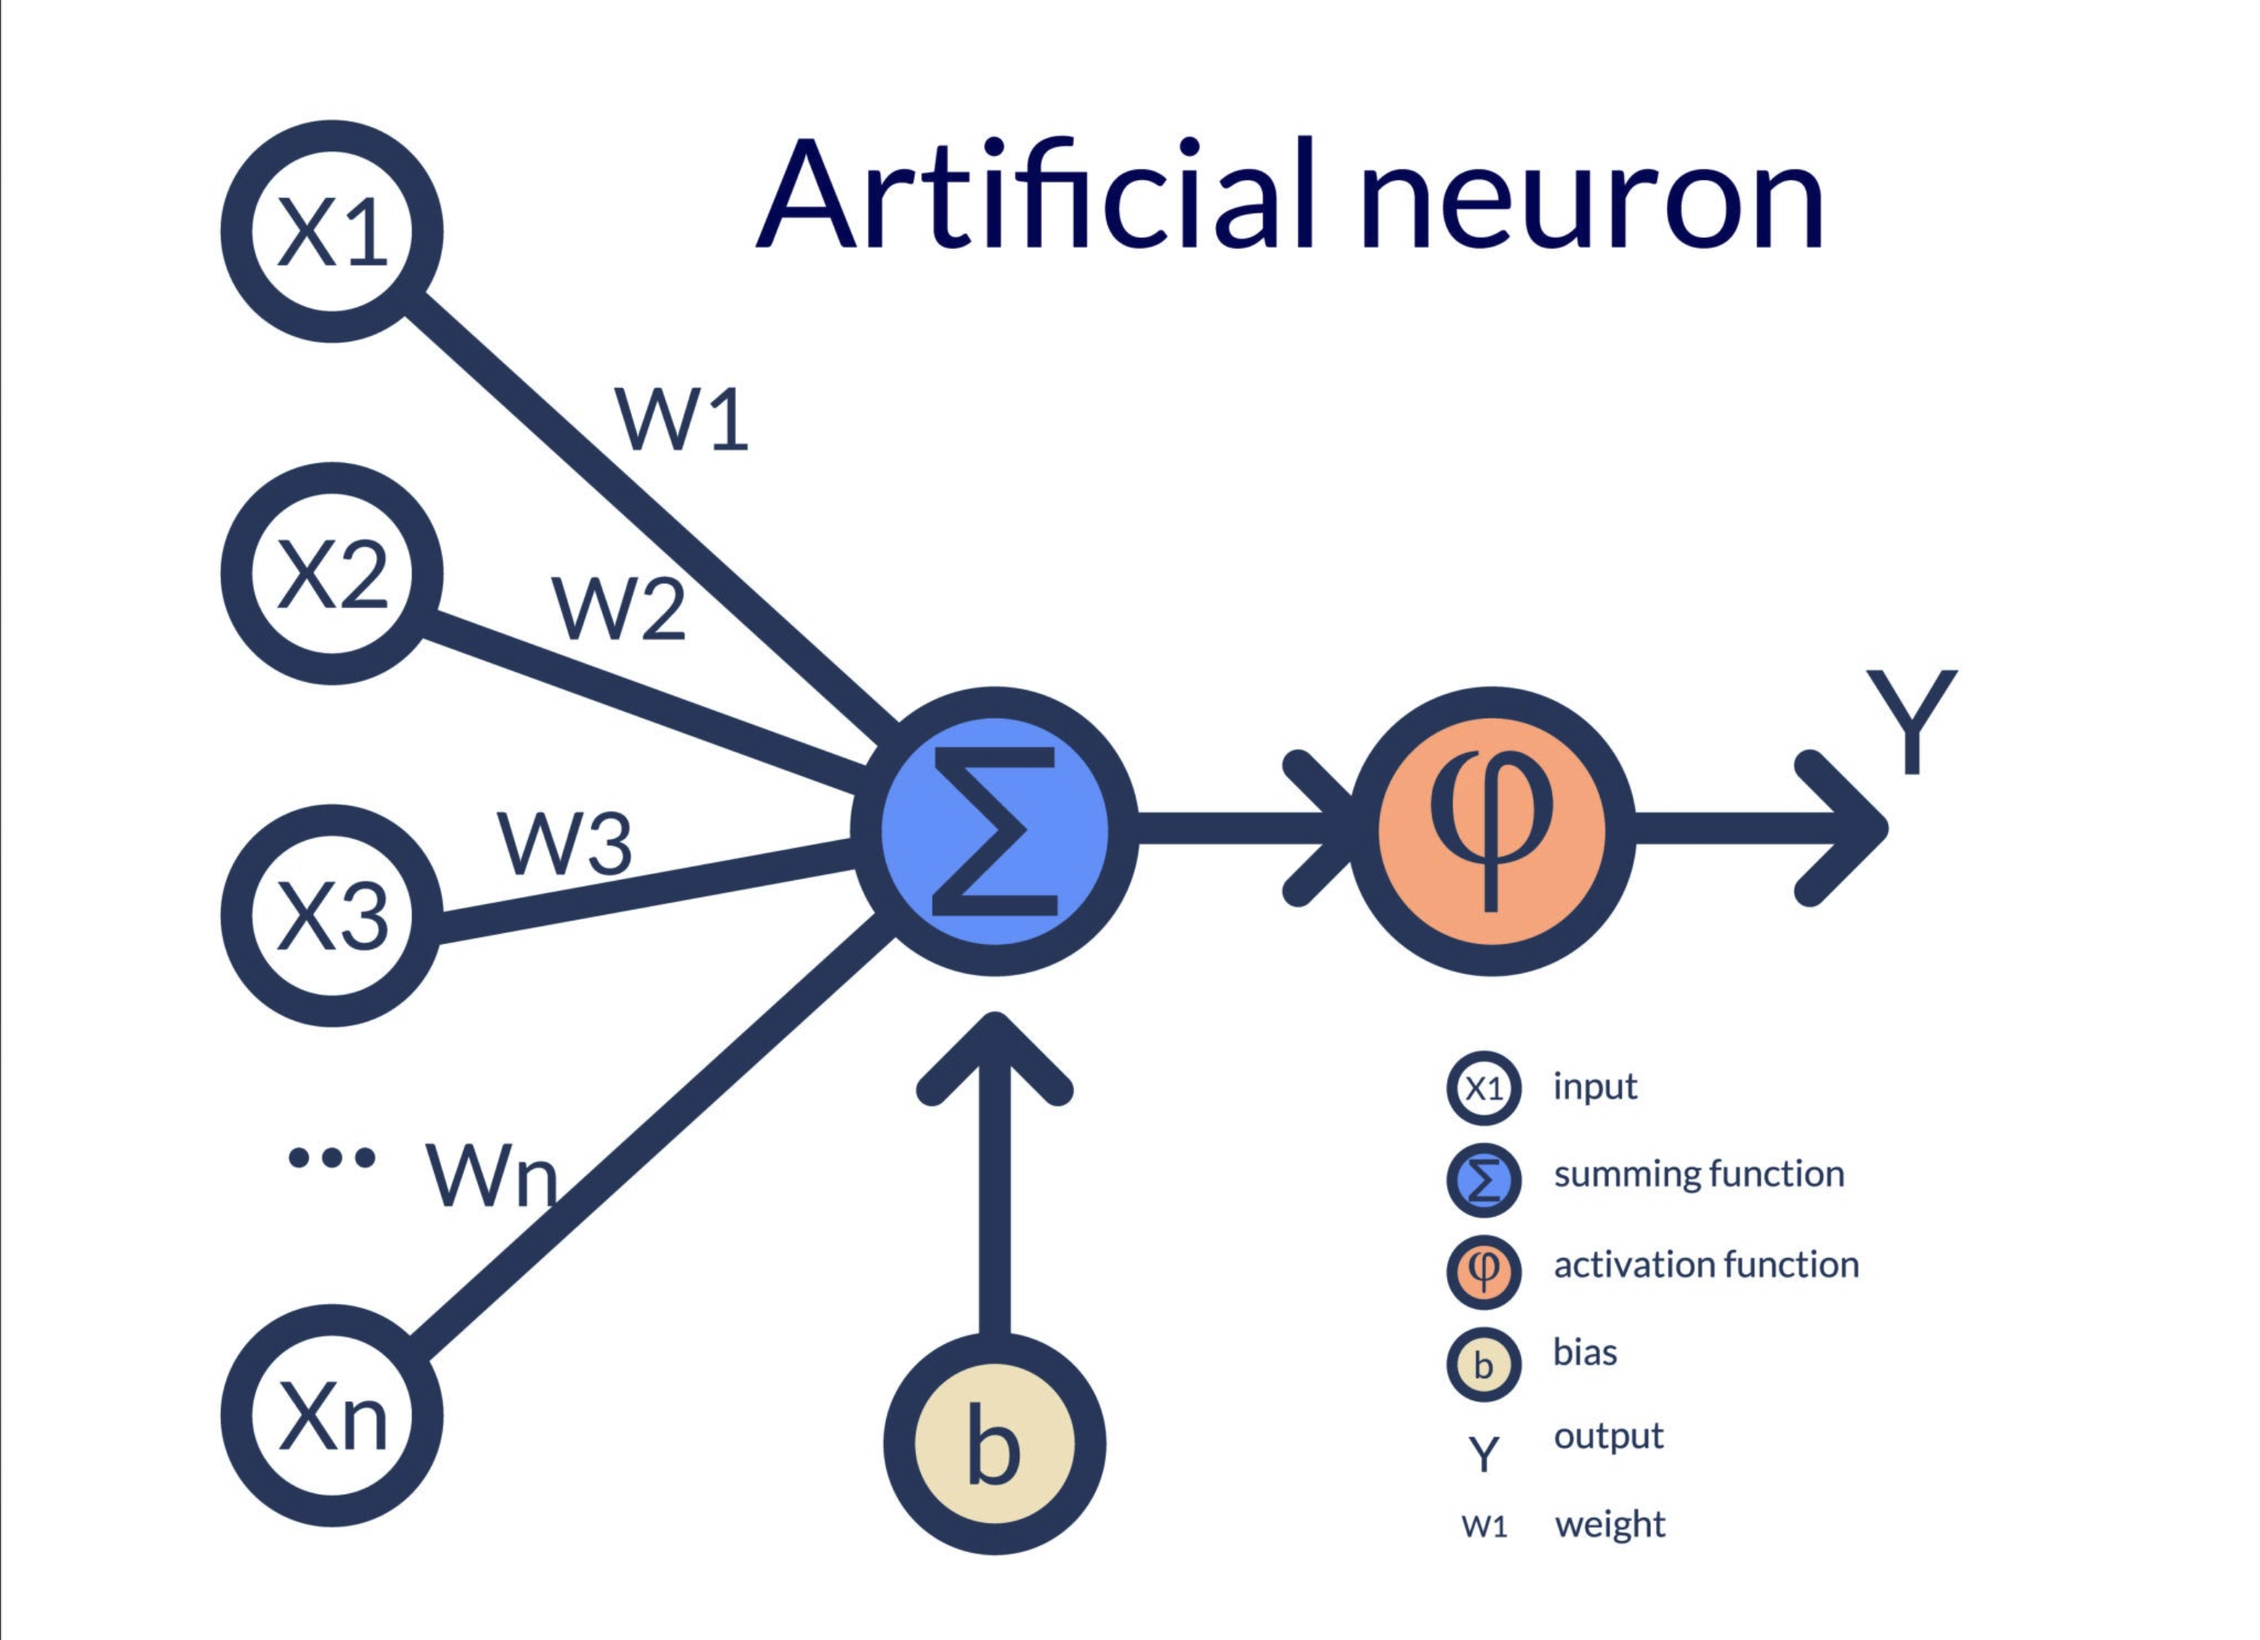
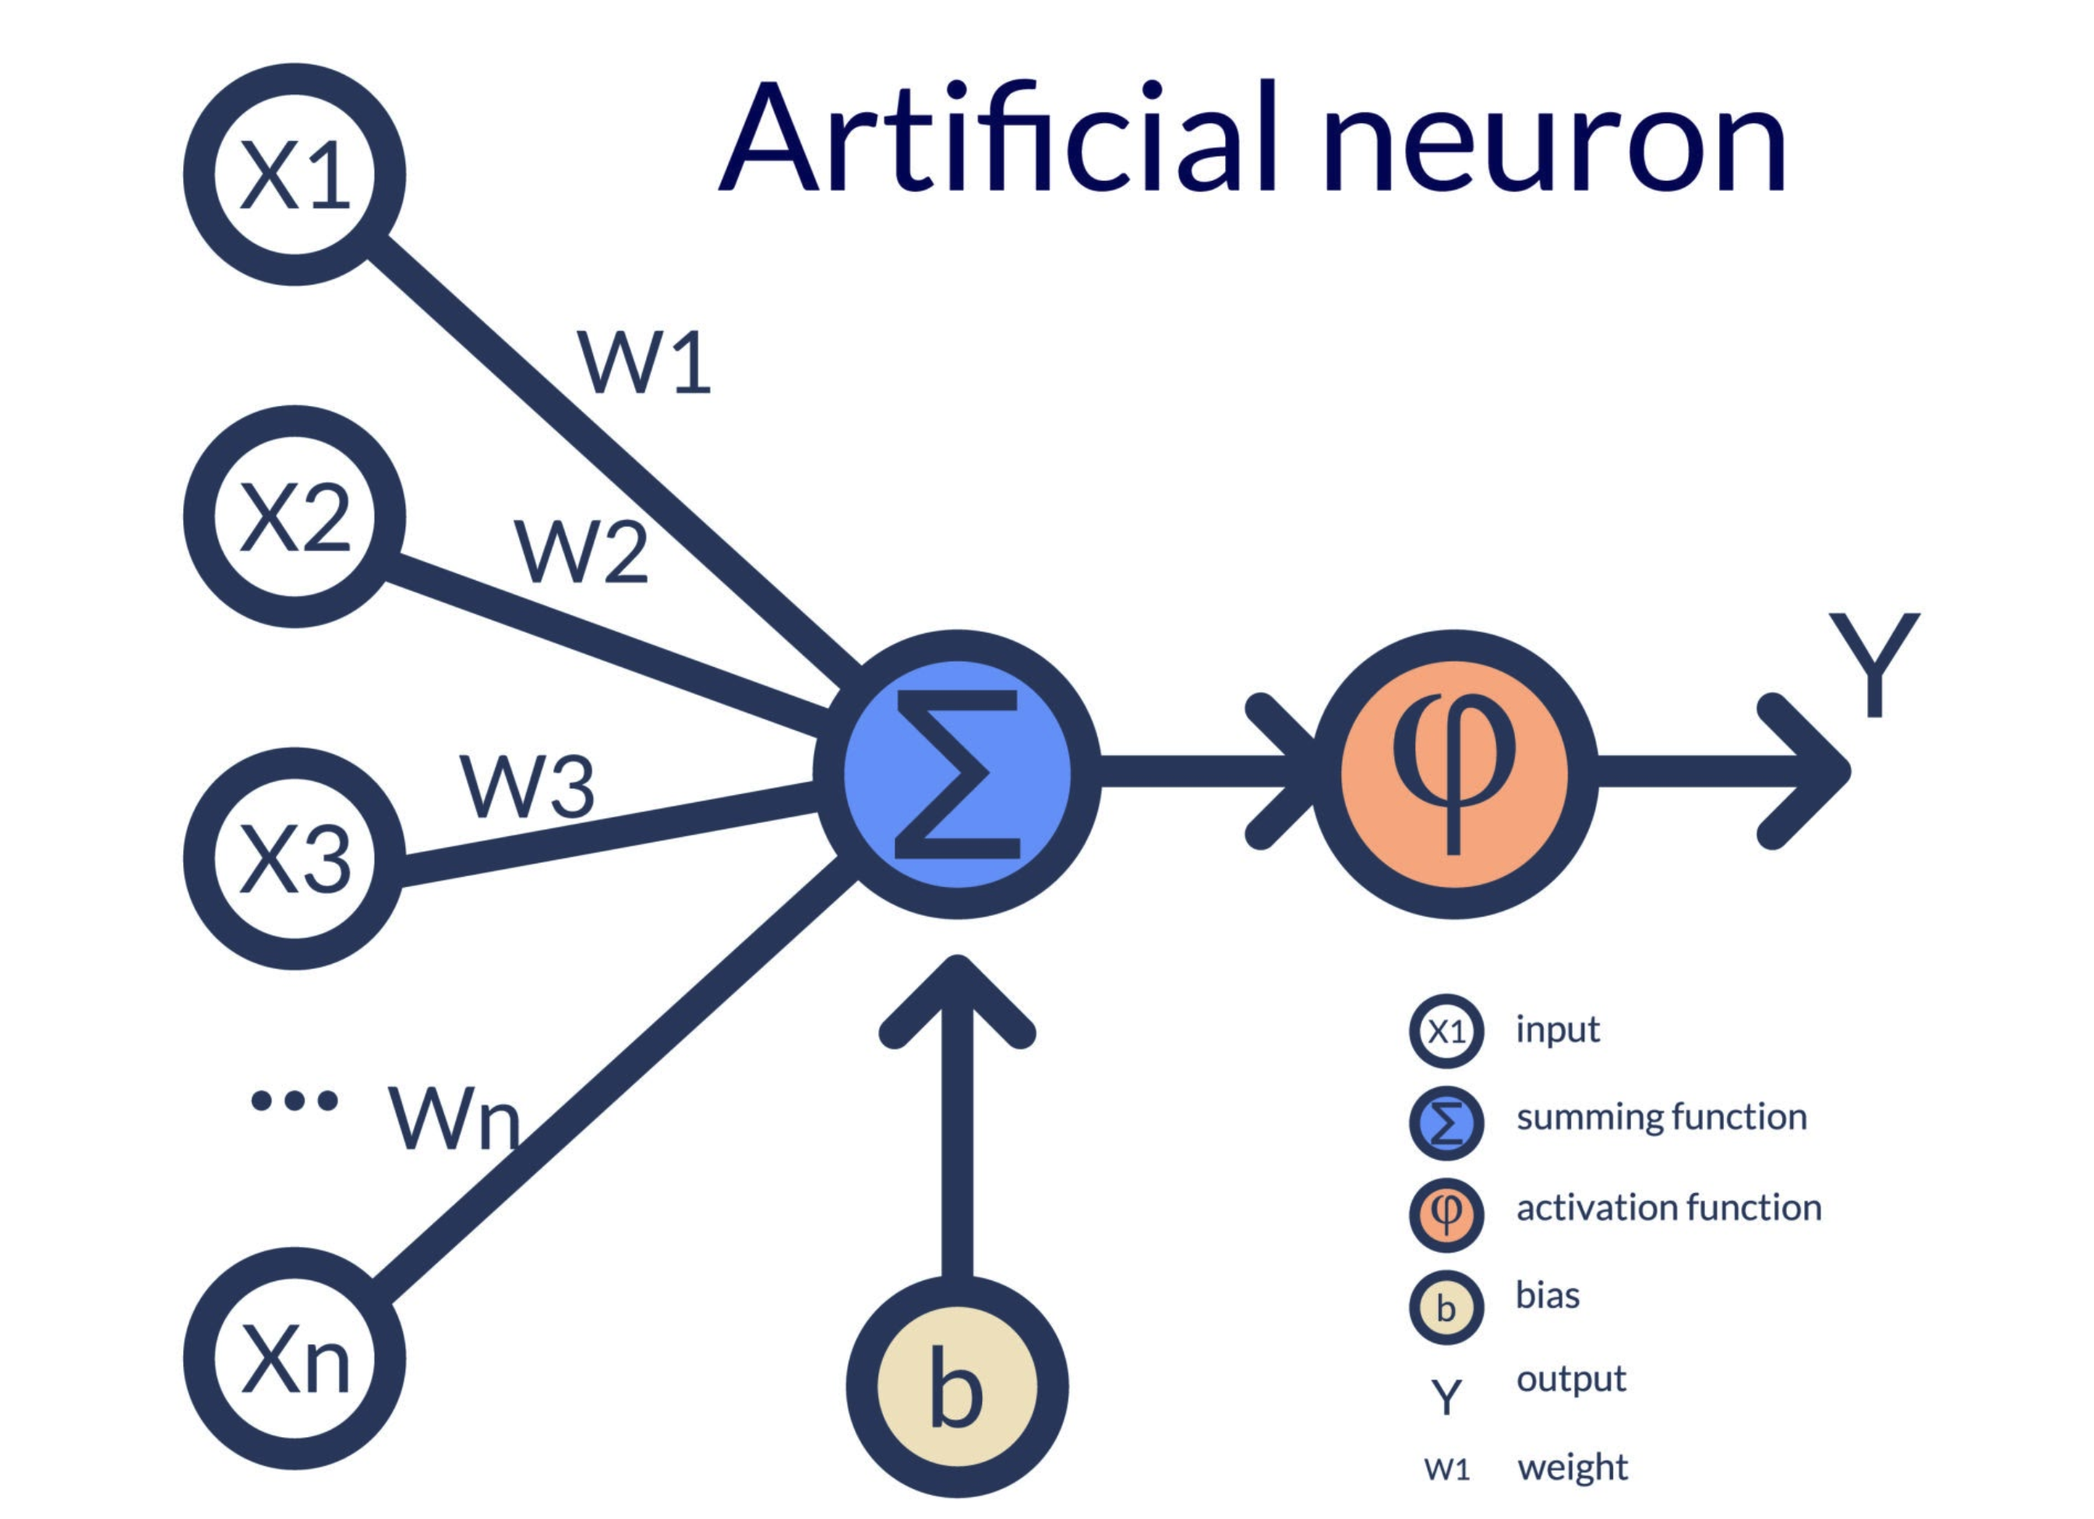
Adjust images

Changed region(s): [[0.0618, 0.0308, 0.9267, 0.9851], [0.3398, 0.0308, 0.8649, 0.1539]]

diff --git a/assets/main.scss b/assets/main.scss
@@ -3,3 +3,8 @@
 ---
 
 @use "minima" as *;
+
+.post-content img {
+  display: block;
+  margin: 0 auto;
+}

diff --git a/_posts/2026-09-11-llm-from-scratch.md b/_posts/2026-09-11-llm-from-scratch.md
@@ -4,8 +4,6 @@ title: "[Hands-On] Building a Real LLM From Scratch for Systems People"
 math: true
 ---
 
-# [Hands-On] Building a Real LLM From Scratch for Systems People
-
 ## 1. Introduction
 
 By now, we’re probably all familiar with large language models (LLMs) such as ChatGPT, Gemini, and Claude. Since 2022, LLMs have begun to revolutionize the world and have had a significant impact on our lives.
@@ -21,7 +19,7 @@ We have been told that LLMs are trained on enormous datasets and generate text b
 
 The above are the overall goals of this article; we achieve these goals by building an LLM from scratch.
 
-## ## 2. What will we do in this article?
+## 2. What will we do in this article?
 
 You will build and run a real GPT model that is trained on Shakespeare’s books and speaks like Shakespeare. Along the way, you will learn the necessary fundamental ML/AI concepts and tools.
 
@@ -129,7 +127,7 @@ I view neural network as a computer algorithm inspired by human brain.
 
 The following is the anatomy of a single artificial neuron. 
 
-![image.png](/assets/images/llm-from-scratch/image-1.png)
+![image.png](/assets/images/llm-from-scratch/image-1.png){: width="80%"}
 
 (*Anatomy of a single artificial neuron. Source: Тюжина Ирина / Getty Images*)
 
@@ -374,7 +372,7 @@ y = [
 
 We actually get 8 examples from the first block. 
 
-![image.png](/assets/images/llm-from-scratch/image-6.png)
+![image.png](/assets/images/llm-from-scratch/image-6.png){: width="200px"}
 
 The hope is that, when the model has seen enough examples like these, it will be able to predict the next token. The following diagram shows how the training data is used. The diagram is the same as the pickleball example, except that the weather and wind speed become a block of text from Shakespeare; the Yes/No becomes the next tokens..
 
@@ -472,11 +470,11 @@ We need a lookup table to contain embeddings for tokens and positions. For the S
 
 The token embedding has 65 rows, because there are 65 characters in text. Each row contains the embedding for a token (i.e., a character). For example, the second row has the embedding for ‘!’ (token id is `2`). 
 
-![image.png](/assets/images/llm-from-scratch/image-9.png)
+![image.png](/assets/images/llm-from-scratch/image-9.png){: width="300px"}
 
 The position embedding table has 256 rows. Each row contains the embedding for a particular position. 
 
-![image.png](/assets/images/llm-from-scratch/image-10.png)
+![image.png](/assets/images/llm-from-scratch/image-10.png){: width="300px"}
 
 In PyTorch, use `nn.Embedding` to define learnable lookup tables. It is learnable because PyTorch can automatically update the embeddings when optimizing.
 
@@ -545,11 +543,11 @@ What are the dimensions of `tok_emb`?
 
 Let’s take the small example we have used. Given the following input
 
-![image.png](/assets/images/llm-from-scratch/image-11.png)
+![image.png](/assets/images/llm-from-scratch/image-11.png){: width="300px"}
 
 Given the following input, the output will look like the following.
 
-![image.png](/assets/images/llm-from-scratch/image-12.png)
+![image.png](/assets/images/llm-from-scratch/image-12.png){: width="300px"}
 
 Essentially, for each element in `idx`, we get an embedding and store it in an additional dimension. For example, `tok_emb[0, 3, 2]` stores a single number of the embedding for ‘o’. The dimensions for `tok_emb` is 64x256x384. 
 
